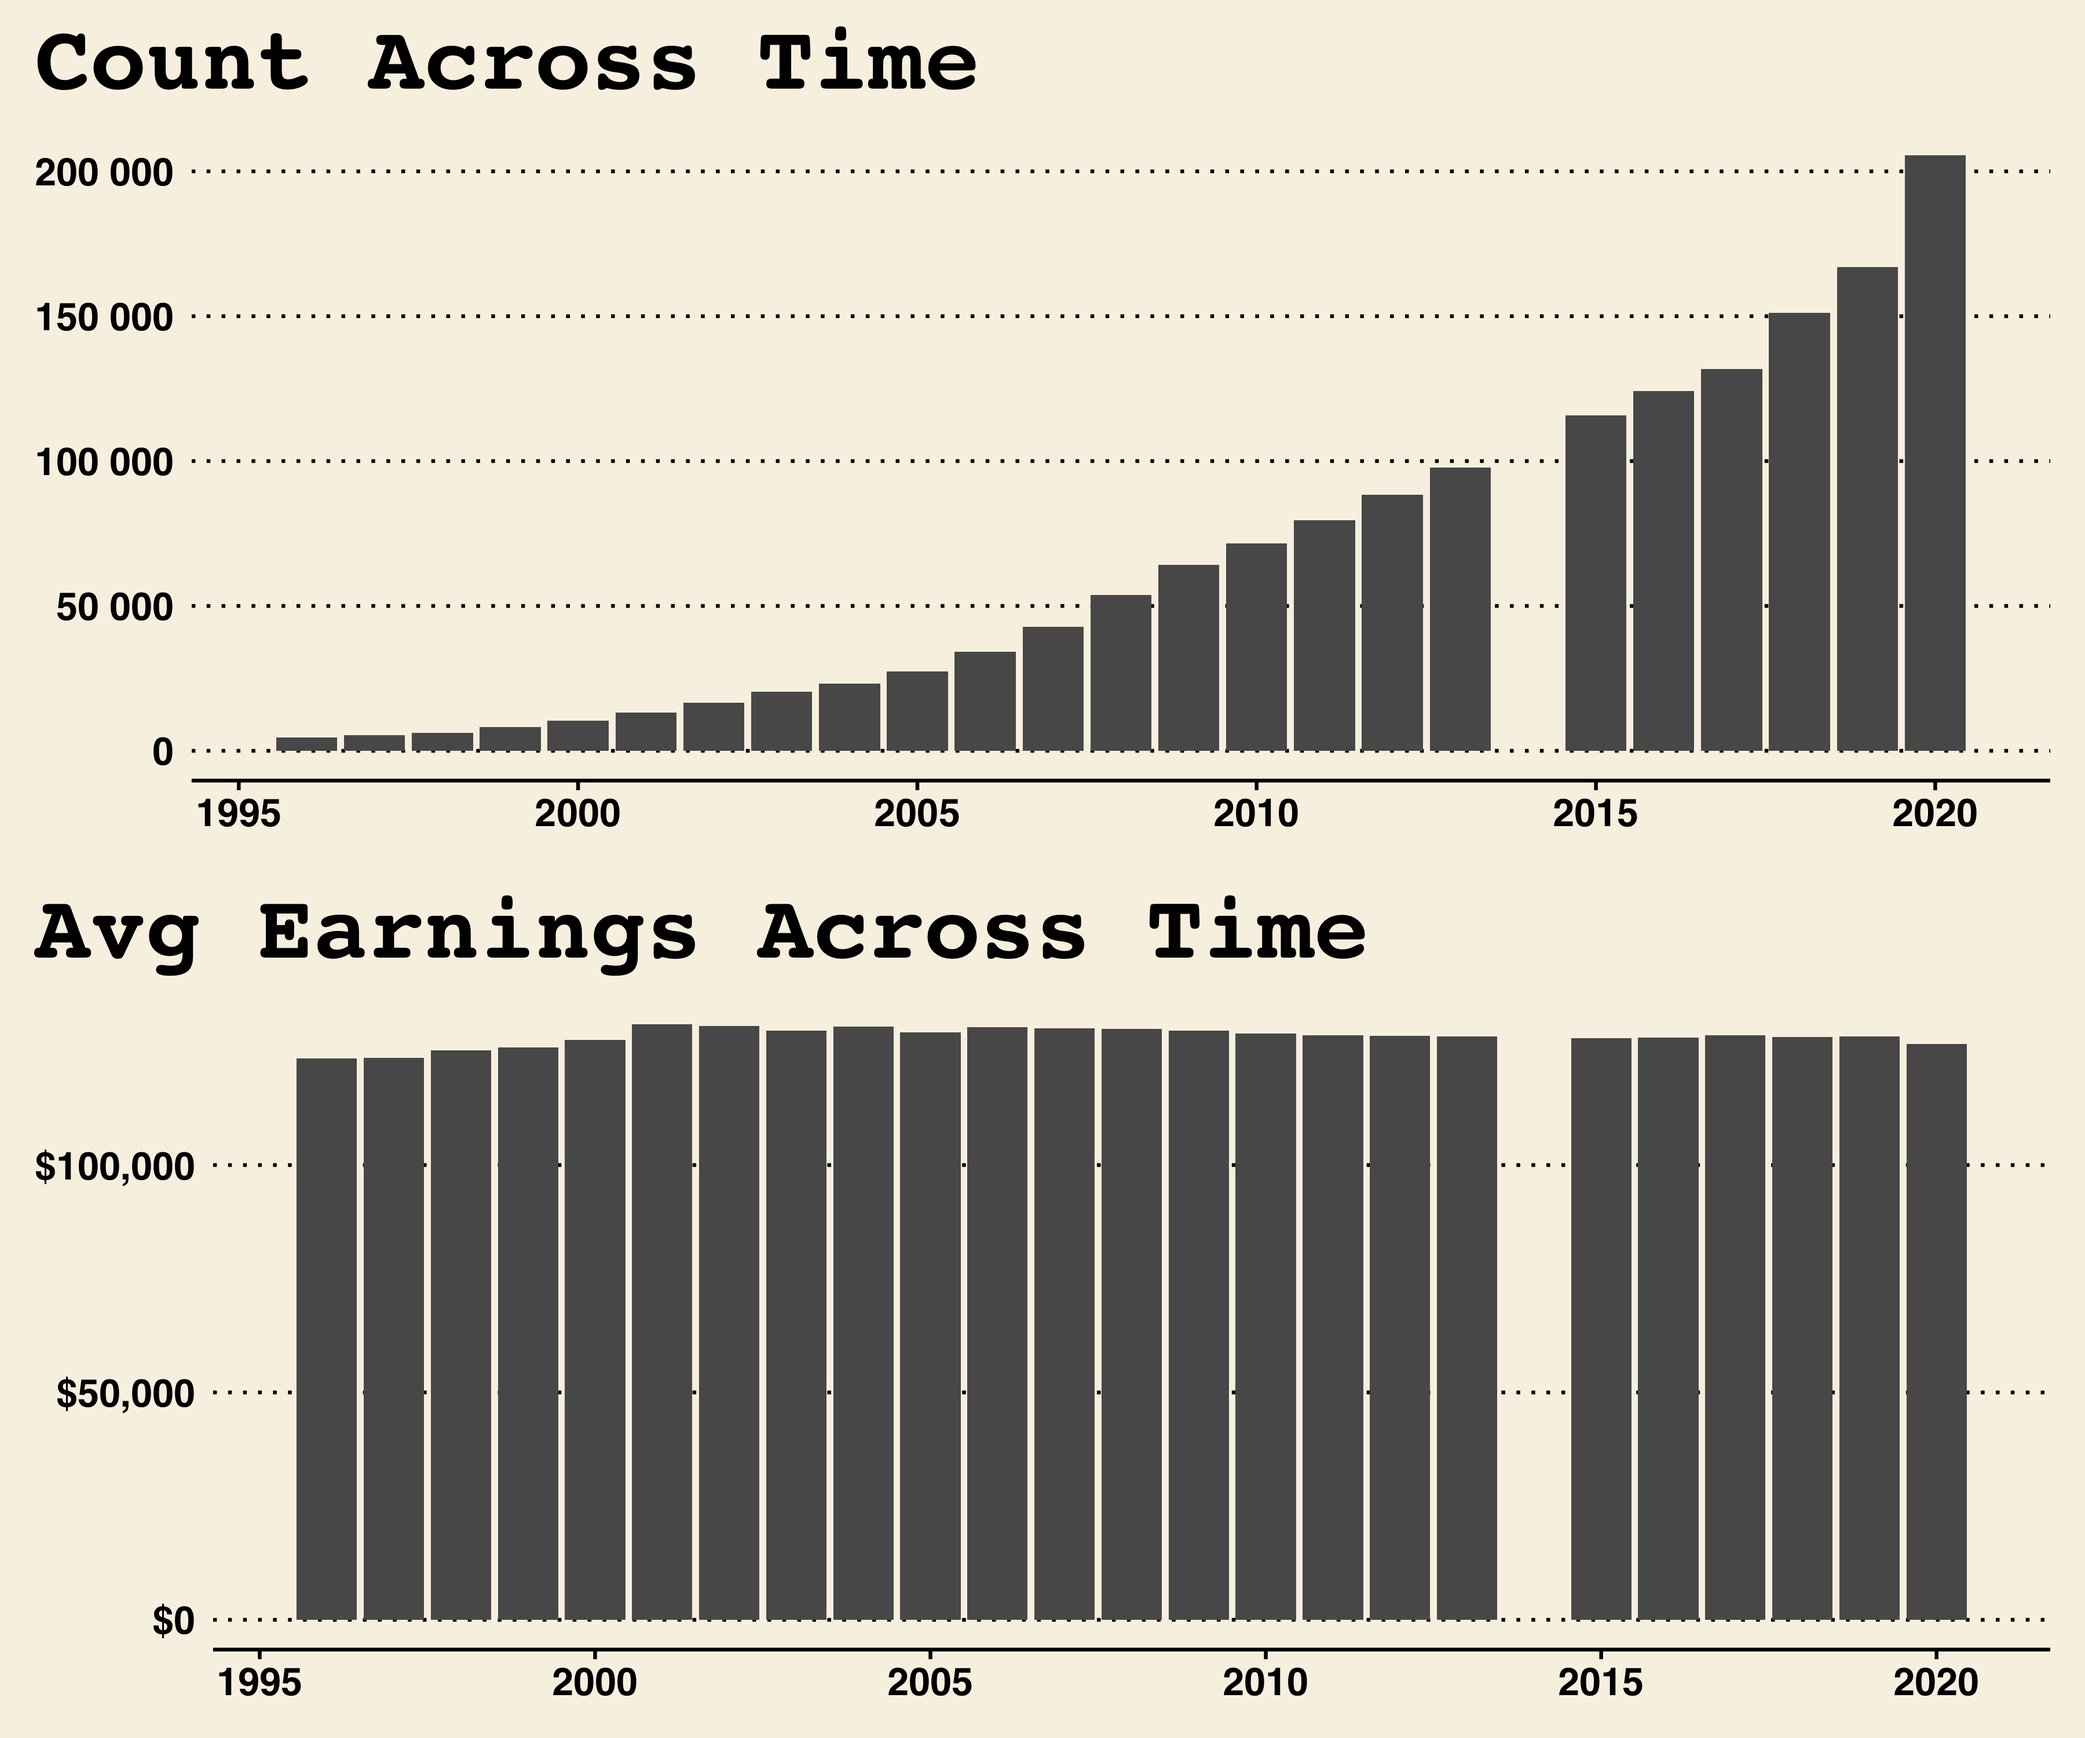
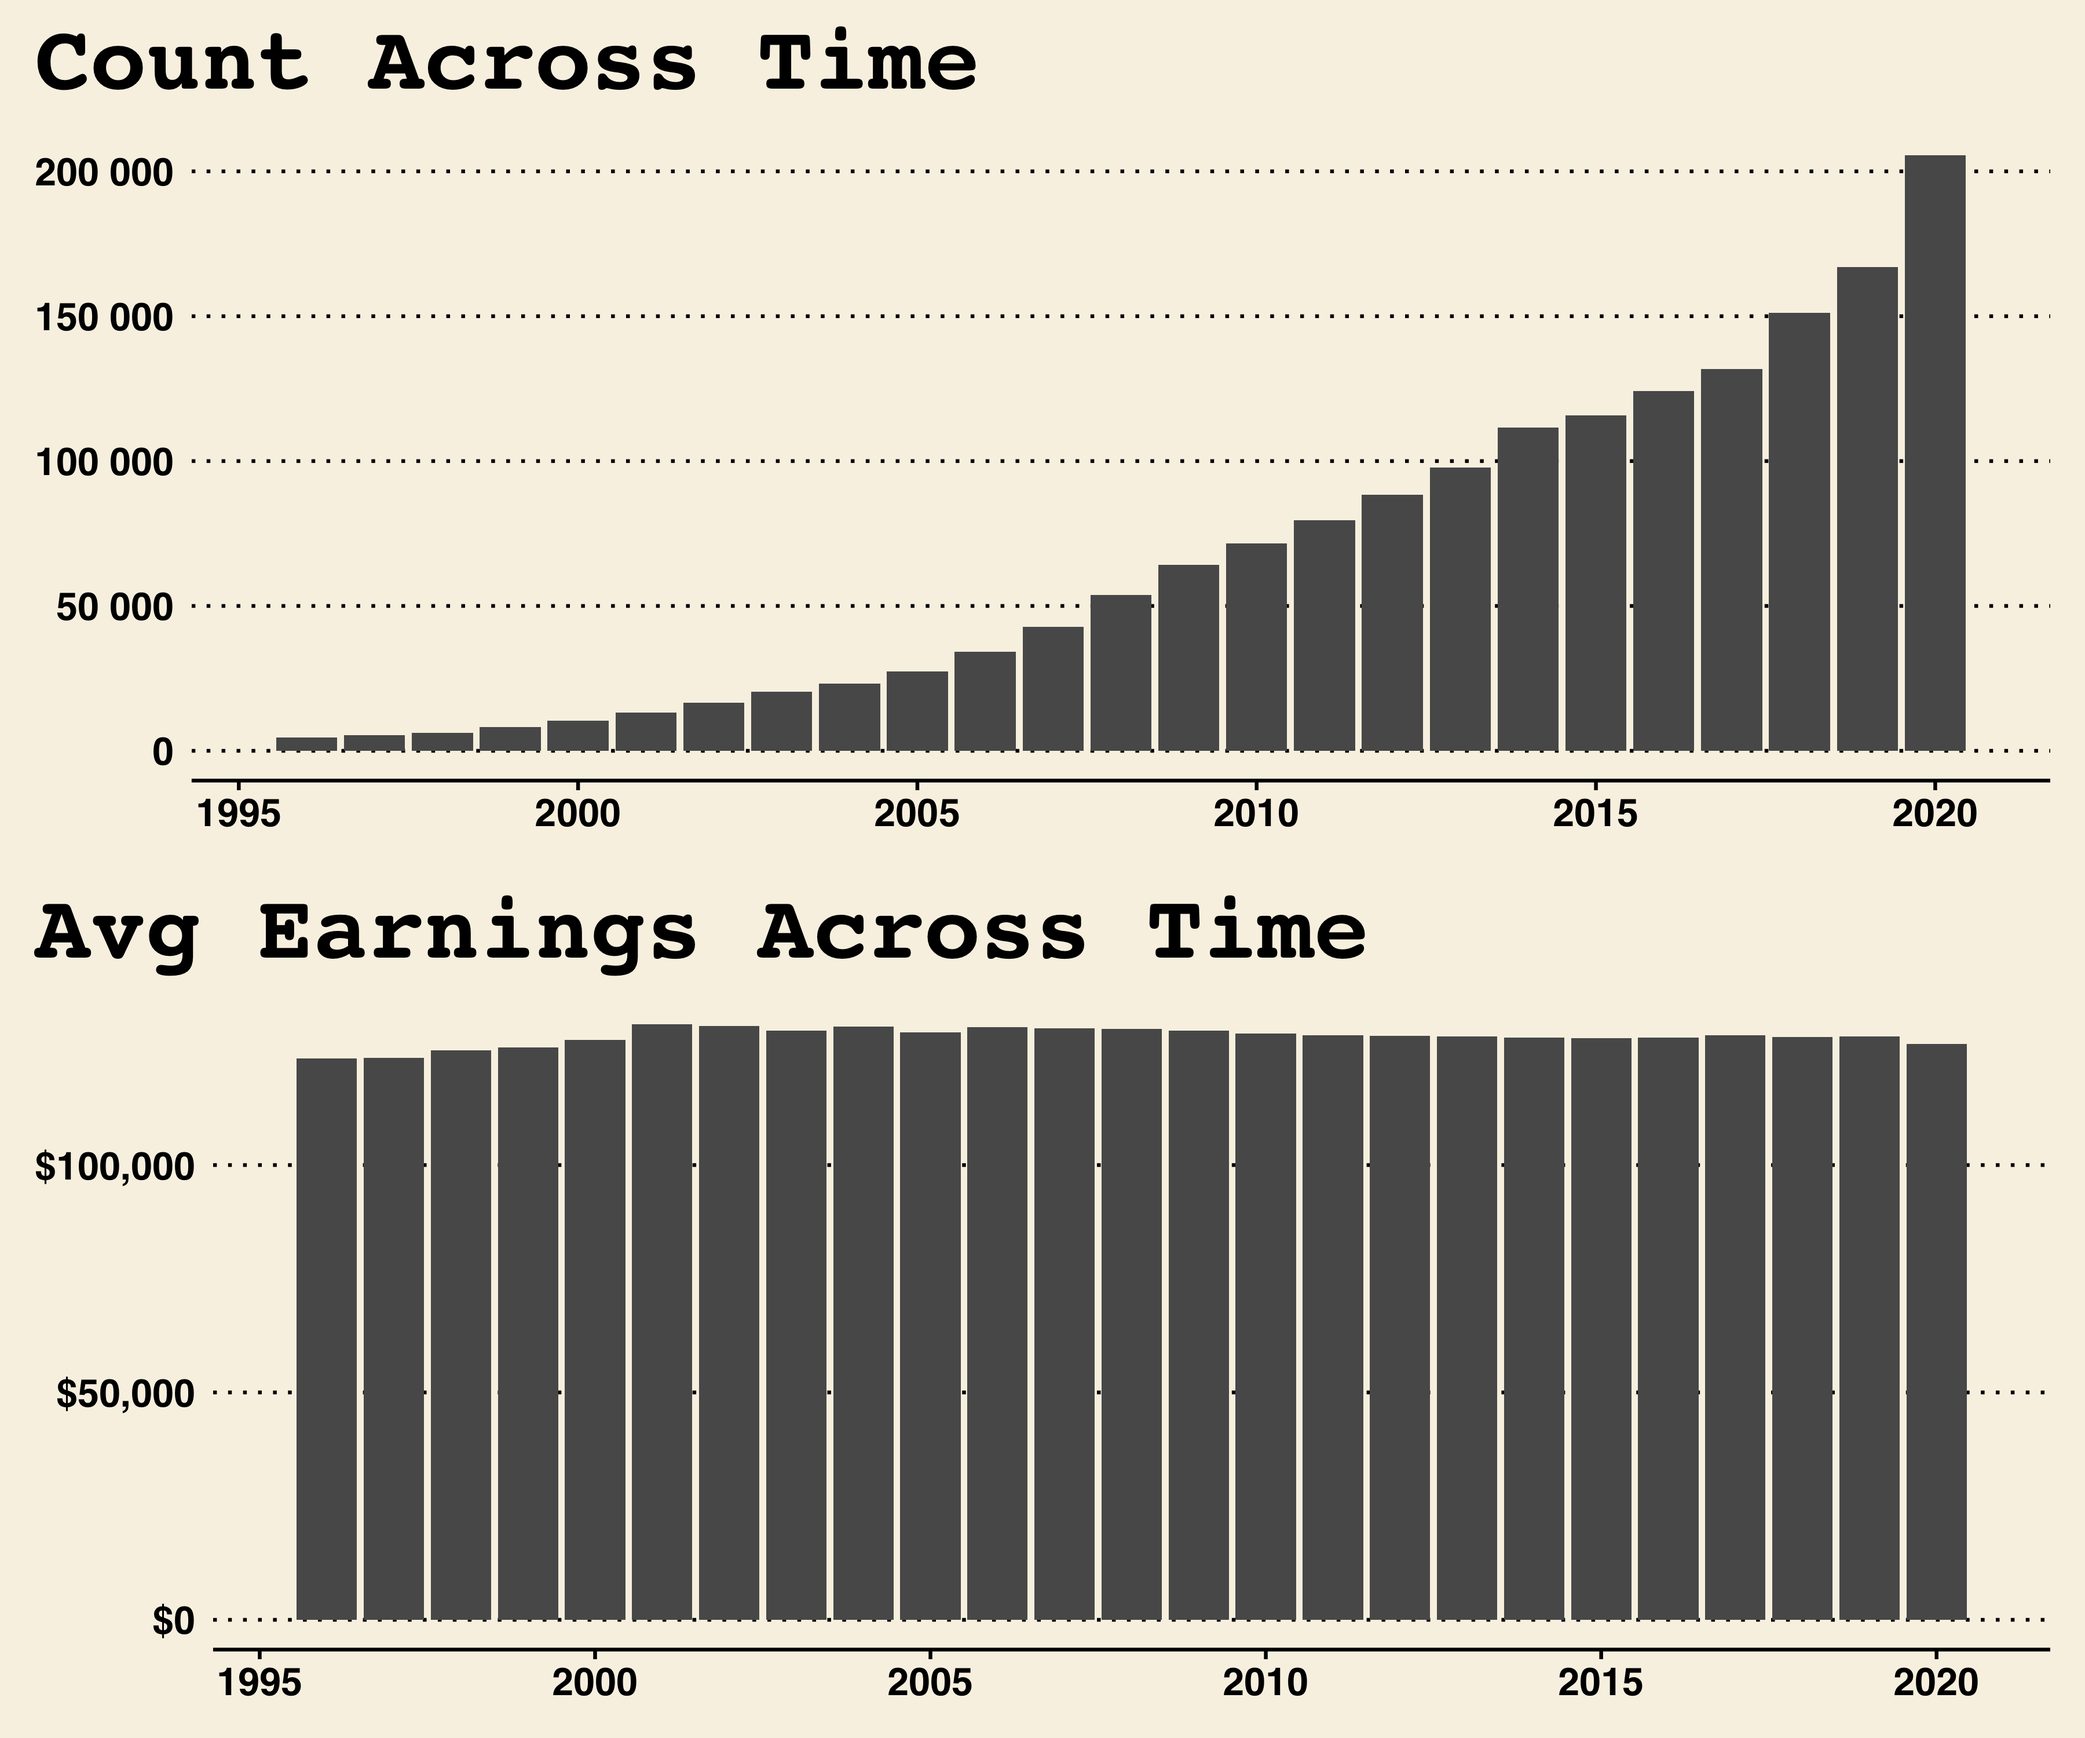
added: 2014, year labels. cleaned waffle

Changed region(s): [[0.7156, 0.589, 0.7778, 0.93], [0.7156, 0.248, 0.7467, 0.434]]

diff --git a/Report.md b/Report.md
@@ -15,7 +15,6 @@ government is responding to a health crisis first, social second, and
 economic last.
 
 <!-- change to summary  -->
-<!-- Fix 2014 -->
 <!-- add db context -->
 
 Summary:
